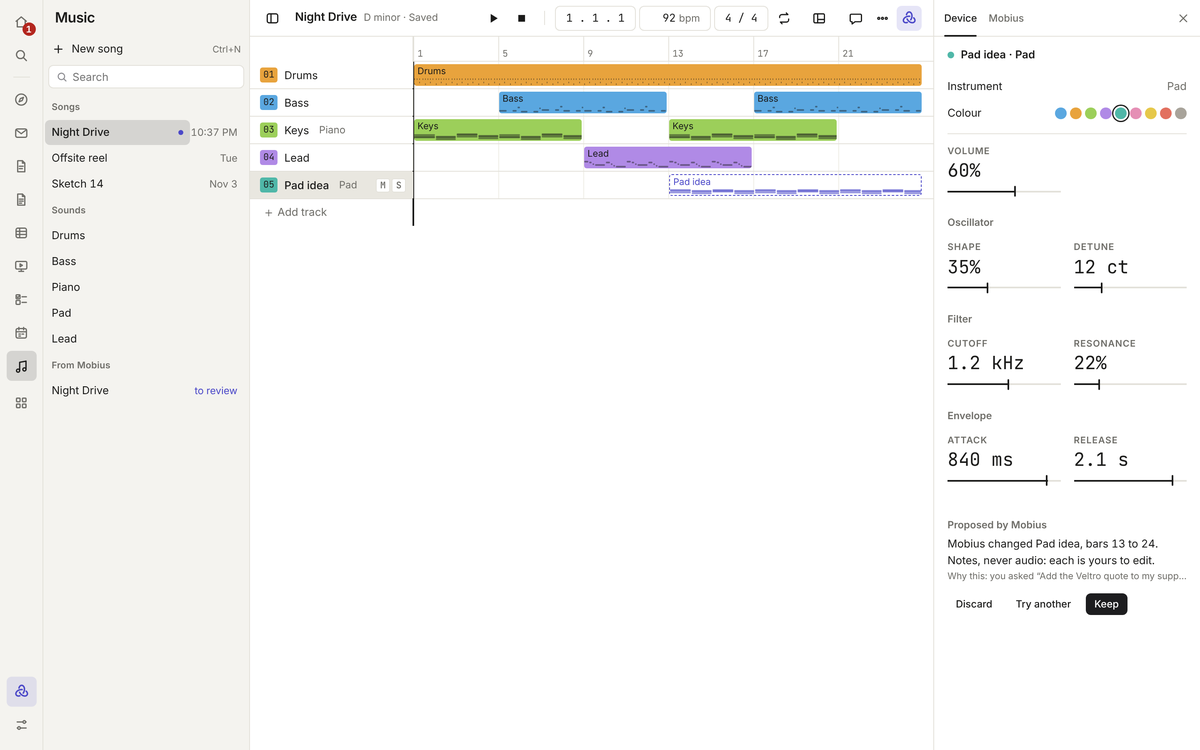
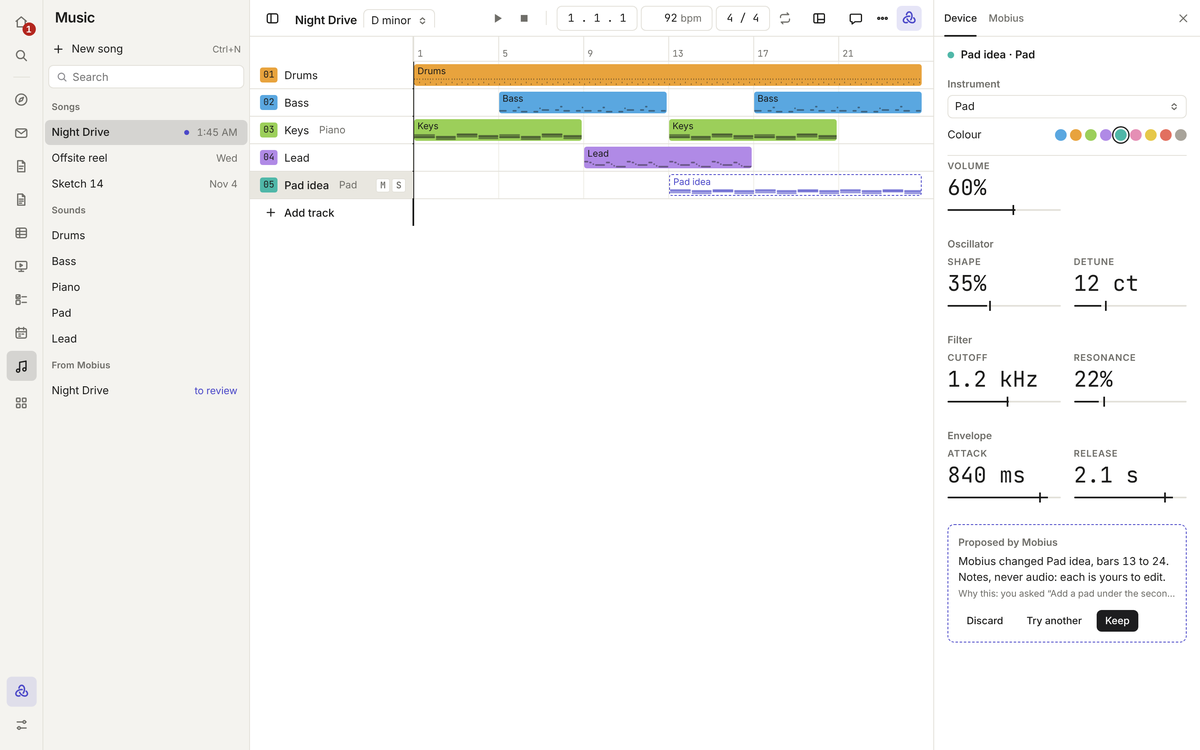
Music: shared controls swap (Select, ParamCell, Slider, IconButton, Button) (#215)
* Music: shared controls in place of Music's own

Select for Key, Instrument, Grid and Note length; ParamCell and ParamGrid for Volume and the sound settings;
Slider for velocity; IconButton for Play, Stop, Loop and Hide notes; quiet Button for Add track, Quantize and
Delete. Music's CSS for those controls is gone.

Claude-Session: https://claude.ai/code/session_01VRGwo92y9AyxCvHYC61ZVd

* PR screenshots (removed in the next commit)

Claude-Session: https://claude.ai/code/session_01VRGwo92y9AyxCvHYC61ZVd

* Remove the PR screenshots

Claude-Session: https://claude.ai/code/session_01VRGwo92y9AyxCvHYC61ZVd

* Music: Mobius's proposal in the Device tab carries the dashed indigo edge

Claude-Session: https://claude.ai/code/session_01VRGwo92y9AyxCvHYC61ZVd

* PR screenshots (removed in the next commit)

Claude-Session: https://claude.ai/code/session_01VRGwo92y9AyxCvHYC61ZVd

* Remove the PR screenshots

Claude-Session: https://claude.ai/code/session_01VRGwo92y9AyxCvHYC61ZVd

* Music: "Why this" quotes the turn that changed the song

WhyThis takes the file under review and quotes the turn that touched it (marked shared edit); the preview
gets Night Drive's own turn.

Claude-Session: https://claude.ai/code/session_01VRGwo92y9AyxCvHYC61ZVd

* PR screenshots (removed in the next commit)

Claude-Session: https://claude.ai/code/session_01VRGwo92y9AyxCvHYC61ZVd

* Remove the PR screenshots

Claude-Session: https://claude.ai/code/session_01VRGwo92y9AyxCvHYC61ZVd

---------

diff --git a/apps/desktop/src/Studio.tsx b/apps/desktop/src/Studio.tsx
@@ -5,8 +5,8 @@ import { EmptyState } from './EmptyState';
 import { BEATS_PER_BAR, COLOUR_NAMES, DRUMS, INSTRUMENTS, INSTRUMENT_NAMES, KEYS, TRACK_COLOURS, nextColour, SOUND_DEFAULTS, SOUND_RANGE, changedTracks, freshTrackId, keyPitches, noteName, parseSong, soundOf, writeSong, type Instrument, type Song, type SongNote, type Sound, type Track } from './song-format';
 import type { CSSProperties } from 'react';
 import { play, previewNote, type Player } from './studio-audio';
-import { GRIDS, addNote, clipsOf, cycleOf, duplicateNotes, fitTracks, fromSlider, nudgeVelocity, isBlack, moveNotes, notesIn, pasteNotes, position, quantizeNotes, removeNotes, setVelocity, snap, soundText, stretchNotes, toSlider, type Cycle, type Picked } from './studio-view';
-import { AppSidebar, PanelTab, SidebarRow, SidebarSearch, SidebarSection, ToolbarControls, UndoToast } from './ui';
+import { GRIDS, addNote, clipsOf, cycleOf, duplicateNotes, fitTracks, nudgeVelocity, isBlack, moveNotes, notesIn, pasteNotes, position, quantizeNotes, removeNotes, setVelocity, snap, soundText, stretchNotes, type Cycle, type Picked } from './studio-view';
+import { AppSidebar, Button, IconButton, PanelTab, ParamCell, ParamGrid, Select, SidebarRow, SidebarSearch, SidebarSection, Slider, ToolbarControls, UndoToast } from './ui';
 import { SideNew } from './SideNew';
 import { statusText } from './notes-state';
 import { dayLabel, timeLabel, weekdayLabel } from './dates';
@@ -83,7 +83,7 @@ export function StudioSub({ songs }: { songs: NotesState }) {
   const setKey = (key: string) => { const next = structuredClone(song); next.key = key; songs.edit(writeSong(next)); };
   return (
     <>
-      <select className="studio-key-pick" aria-label="Key" value={song.key} onChange={(e) => setKey(e.target.value)}>{KEYS.map((k) => <option key={k}>{k}</option>)}</select>
+      <Select className="studio-key-pick" label="Key" hideLabel value={song.key} choices={KEY_CHOICES} onChange={setKey} />
       {' · '}<span className="note-status" role="status" data-status={songs.status}>{songs.message || statusText(songs.status)}</span>
     </>
   );
@@ -150,24 +150,20 @@ function Clips({ track, bars, proposed, bw, onOpen }: { track: Track; bars: numb
   );
 }
 
-/**
- * One of the Device panel's settings, as an instrument's parameter cell: a small label above, the value large in the
- * mono face, and a thin slider under it. Double-click puts it back.
- */
-function DeviceCell({ name, text, at, onSlide, onReset, label = name }: { name: string; text: string; at: number; onSlide: (t: number) => void; onReset: () => void; label?: string }) {
-  return (
-    <label className="studio-cell" onDoubleClick={onReset} title={`${name}. Double-click to put it back.`}>
-      <span className="studio-cell-name">{name}</span>
-      <output className="studio-cell-value">{text}</output>
-      <input type="range" aria-label={label} min={0} max={1000} step={1} value={Math.round(at * 1000)} aria-valuetext={text} onChange={(e) => onSlide(Number(e.target.value) / 1000)} style={{ ['--at' as string]: `${at * 100}%` }} />
-    </label>
-  );
-}
+/** How finely each setting moves with the arrow keys (Shift for ten times as far). */
+const SOUND_STEP: Record<keyof Sound, number> = { shape: 0.01, detune: 1, cutoff: 10, resonance: 0.01, attack: 0.001, release: 0.01 };
+/** Cutoff, attack and release are heard in ratios, so their sliders move evenly in octaves rather than in Hz or seconds. */
+const LOG_SOUND = new Set<keyof Sound>(['cutoff', 'attack', 'release']);
+
+/** One of the Device panel's settings, as the shared parameter cell. Double-click puts it back to the instrument's own. */
 function DeviceSlider({ name, k, value, base, onChange }: { name: string; k: keyof Sound; value: number; base: number; onChange: (v: number) => void }) {
   const { lo, hi } = SOUND_RANGE[k];
-  const log = k === 'cutoff' || k === 'attack' || k === 'release';
-  return <DeviceCell name={name} text={soundText(k, value)} at={toSlider(value, lo, hi, log)} onSlide={(t) => onChange(fromSlider(t, lo, hi, log))} onReset={() => onChange(base)} />;
+  return <ParamCell label={name} value={value} min={lo} max={hi} step={SOUND_STEP[k]} scale={LOG_SOUND.has(k) ? 'log' : 'linear'} reset={base} format={(v) => soundText(k, v)} onChange={onChange} />;
 }
+
+const INSTRUMENT_CHOICES = INSTRUMENTS.map((i) => ({ value: i, label: INSTRUMENT_NAMES[i] }));
+const KEY_CHOICES = KEYS.map((k) => ({ value: k, label: k }));
+const GRID_CHOICES = GRIDS.map((g) => ({ value: String(g.beats), label: g.label }));
 
 /**
  * The Device panel: how the chosen track sounds (its instrument, volume, oscillator, filter and envelope), and what
@@ -189,35 +185,33 @@ export function StudioDevice({ track, onTrack, proposal }: {
             <span className="studio-dev-dot" aria-hidden="true" />{track.name === INSTRUMENT_NAMES[track.instrument] ? track.name : `${track.name} · ${INSTRUMENT_NAMES[track.instrument]}`}
           </h3>
           <div className="studio-dev-group">
-            <label className="studio-dev-row"><span className="studio-dev-name">Instrument</span>
-              <select aria-label="Instrument" value={track.instrument} onChange={(e) => onTrack((t) => { t.instrument = e.target.value as Instrument; delete t.sound; })}>{INSTRUMENTS.map((i) => <option key={i} value={i}>{INSTRUMENT_NAMES[i]}</option>)}</select>
-            </label>
-            <div className="studio-dev-row"><span className="studio-dev-name" id="studio-colour-name">Colour</span>
+            <Select className="studio-dev-row" label="Instrument" value={track.instrument} choices={INSTRUMENT_CHOICES} onChange={(i) => onTrack((t) => { t.instrument = i; delete t.sound; })} />
+            <div className="studio-colour-row"><span id="studio-colour-name">Colour</span>
               <span className="studio-swatches" role="radiogroup" aria-labelledby="studio-colour-name">
                 {TRACK_COLOURS.map((c) => <button key={c} type="button" role="radio" aria-checked={track.color === c} aria-label={COLOUR_NAMES[c]} title={COLOUR_NAMES[c]} className="studio-swatch" style={{ '--tc': `var(--c-${c})` } as CSSProperties} onClick={() => onTrack((t) => { t.color = c; })} />)}
               </span>
             </div>
           </div>
-          <div className="studio-cells">
-            <DeviceCell name="Volume" label={`Volume of ${track.name}`} text={`${Math.round(track.volume * 100)}%`} at={track.volume} onSlide={(v) => onTrack((t) => { t.volume = Math.round(v * 100) / 100; }, 'volume')} onReset={() => onTrack((t) => { t.volume = 0.8; })} />
-          </div>
+          <ParamGrid label="Level">
+            <ParamCell label="Volume" value={track.volume} min={0} max={1} step={0.01} reset={0.8} format={(v) => `${Math.round(v * 100)}%`} onChange={(v) => onTrack((t) => { t.volume = v; }, 'volume')} />
+          </ParamGrid>
           {sound && base ? (
             <>
               <h4 className="studio-dev-head">Oscillator</h4>
-              <div className="studio-cells">
+              <ParamGrid label="Oscillator">
                 <DeviceSlider name="Shape" k="shape" value={sound.shape} base={base.shape} onChange={(v) => set('shape', v)} />
                 <DeviceSlider name="Detune" k="detune" value={sound.detune} base={base.detune} onChange={(v) => set('detune', v)} />
-              </div>
+              </ParamGrid>
               <h4 className="studio-dev-head">Filter</h4>
-              <div className="studio-cells">
+              <ParamGrid label="Filter">
                 <DeviceSlider name="Cutoff" k="cutoff" value={sound.cutoff} base={base.cutoff} onChange={(v) => set('cutoff', v)} />
                 <DeviceSlider name="Resonance" k="resonance" value={sound.resonance} base={base.resonance} onChange={(v) => set('resonance', v)} />
-              </div>
+              </ParamGrid>
               <h4 className="studio-dev-head">Envelope</h4>
-              <div className="studio-cells">
+              <ParamGrid label="Envelope">
                 <DeviceSlider name="Attack" k="attack" value={sound.attack} base={base.attack} onChange={(v) => set('attack', v)} />
                 <DeviceSlider name="Release" k="release" value={sound.release} base={base.release} onChange={(v) => set('release', v)} />
-              </div>
+              </ParamGrid>
             </>
           ) : <p className="studio-dev-note">The drum kit has no settings yet. Each drum has its own row in the notes.</p>}
         </>
@@ -689,7 +683,7 @@ export function StudioEditor({ songs, review }: { songs: NotesState; review?: { 
   const proposal = changed.size > 0 ? (
     <div className="studio-dev-proposal" role="group" aria-label="Mobius's change">
       <h4 className="studio-dev-head">Proposed by Mobius</h4>
-      <p>{`Mobius ${before === null ? 'made' : 'changed'} ${names.join('; ')}. Notes, never audio: each is yours to edit.`}{review && <> <WhyThis conversation={review.conversation} /></>}</p>
+      <p>{`Mobius ${before === null ? 'made' : 'changed'} ${names.join('; ')}. Notes, never audio: each is yours to edit.`}{review && <> <WhyThis conversation={review.conversation} file={file ?? undefined} /></>}</p>
       <div className="studio-dev-actions"><ReviewActions onKeep={keep} onDiscard={discard} /></div>
     </div>
   ) : null;
@@ -712,8 +706,8 @@ export function StudioEditor({ songs, review }: { songs: NotesState; review?: { 
   return (
     <section className="studio-page" aria-label="Music" ref={page} data-editing={editing || undefined}>
       <ToolbarControls label="Transport">
-        <button type="button" className="strip-btn studio-play" aria-label={playing ? 'Pause' : 'Play'} title={playing ? 'Pause (Space)' : 'Play (Space)'} aria-pressed={playing} onClick={() => (playing ? stop() : start())}><Icon d={playing ? 'M6.5 4.5v11M13.5 4.5v11' : ICONS.play} /></button>
-        <button type="button" className="strip-btn" aria-label="Stop" title={playing ? 'Stop (Space)' : 'Back to the start (Enter)'} onClick={stopOrRewind}><Icon d={ICONS.stop} /></button>
+        <IconButton className="studio-play" label={playing ? 'Pause' : 'Play'} keys="Space" pressed={playing} icon={<Icon d={playing ? 'M6.5 4.5v11M13.5 4.5v11' : ICONS.play} />} onClick={() => (playing ? stop() : start())} />
+        <IconButton label="Stop" title={playing ? 'Stop' : 'Back to the start'} keys={playing ? 'Space' : 'Enter'} icon={<Icon d={ICONS.stop} />} onClick={stopOrRewind} />
         <span className="studio-sep" aria-hidden="true" />
         <span className="studio-readout studio-pos" aria-label="Position" role="status" title={pos.time}>{pos.bars.split('.').join(' . ')}</span>
         <label className="studio-readout studio-tempo" title="Tempo, in beats per minute">
@@ -721,7 +715,7 @@ export function StudioEditor({ songs, review }: { songs: NotesState; review?: { 
           <span aria-hidden="true">bpm</span>
         </label>
         <span className="studio-readout studio-meter" aria-label="Meter: 4 beats to a bar" title="Every song is in 4 / 4 for now">4 / 4</span>
-        <button type="button" className="strip-btn" aria-label="Loop" title={loop ? `Looping ${loopWords} (L)` : 'Loop (L)'} aria-pressed={loop} onClick={() => setLoop((l) => !l)}><Icon d={ICONS.loop} /></button>
+        <IconButton label="Loop" title={loop ? `Looping ${loopWords}` : 'Loop'} keys="L" pressed={loop} icon={<Icon d={ICONS.loop} />} onClick={() => setLoop((l) => !l)} />
       </ToolbarControls>
       <div className="studio-main">
         <div className="studio-arrange" data-empty={song.tracks.length === 0 || undefined} style={{ ['--head' as string]: `${HEAD_W}px`, ['--bar' as string]: `${BEATS_PER_BAR * bw}px`, ...(editing ? { height: listH, flex: 'none' } : {}) }}
@@ -777,7 +771,7 @@ export function StudioEditor({ songs, review }: { songs: NotesState; review?: { 
               </div>
             ))}
             <div className="studio-add-row">
-              <button type="button" className="studio-add" onClick={(e) => { const r = e.currentTarget.getBoundingClientRect(); soundsMenu(r.left, r.bottom); }}><Icon d="M10 4.5v11M4.5 10h11" />Add track</button>
+              <Button kind="quiet" className="studio-add" icon={<Icon d="M10 4.5v11M4.5 10h11" />} onClick={(e) => { const r = e.currentTarget.getBoundingClientRect(); soundsMenu(r.left, r.bottom); }}>Add track</Button>
               {song.tracks.length === 0 && <span className="studio-none">No tracks yet.</span>}
             </div>
             <span className="studio-playhead" style={{ left: HEAD_W + beat * bw }} aria-hidden="true" />
@@ -801,18 +795,18 @@ export function StudioEditor({ songs, review }: { songs: NotesState; review?: { 
             <div className="studio-editor" data-instrument={track.instrument} style={{ '--tc': `var(--c-${track.color})` } as CSSProperties}>
               <div className="studio-roll-bar" role="toolbar" aria-label="Notes">
                 <span className="studio-roll-title"><span className="studio-dev-dot" aria-hidden="true" />{track.name}</span>
-                <label className="studio-field"><span>Grid</span><select aria-label="Grid" value={grid} onChange={(e) => setGrid(Number(e.target.value))}>{GRIDS.map((g) => <option key={g.beats} value={g.beats}>{g.label}</option>)}</select></label>
-                {!drums && <label className="studio-field"><span>Draw</span><select aria-label="Note length" value={drawLength} onChange={(e) => setDrawLength(Number(e.target.value))}>{GRIDS.map((g) => <option key={g.beats} value={g.beats}>{g.label}</option>)}</select></label>}
-                <button type="button" className="studio-chip" title="Line notes up to the grid (Q)" onClick={() => setNotes((n) => quantizeNotes(n, picked, grid, total))}>Quantize</button>
+                <Select label="Grid" value={String(grid)} choices={GRID_CHOICES} onChange={(g) => setGrid(Number(g))} />
+                {!drums && <Select label="Note length" value={String(drawLength)} choices={GRID_CHOICES} onChange={(g) => setDrawLength(Number(g))} />}
+                <Button kind="quiet" title="Line notes up to the grid" keys="Q" onClick={() => setNotes((n) => quantizeNotes(n, picked, grid, total))}>Quantize</Button>
                 <span className="studio-gap" />
                 {velocity !== null ? (
                   <>
                     <span className="studio-picked">{pickedNotes.length === 1 ? `${drums ? (DRUMS.find((d) => d.pitch === pickedNotes[0]!.pitch)?.name ?? '') : noteName(pickedNotes[0]!.pitch)} at ${position(pickedNotes[0]!.start, song.tempo).bars}` : `${pickedNotes.length} notes`}</span>
-                    <label className="studio-field studio-velocity"><span>Velocity</span><input type="range" aria-label="Velocity" min={0} max={1} step={0.01} value={velocity} onChange={(e) => setNotes((n) => setVelocity(n, picked, Number(e.target.value)), 'velocity')} /><output>{Math.round(velocity * 127)}</output></label>
-                    <button type="button" className="studio-chip" aria-label="Delete notes" title="Delete (Delete)" onClick={() => { setNotes((n) => removeNotes(n, picked)); setPicked(new Set()); }}>Delete</button>
+                    <Slider className="studio-velocity" label="Velocity" value={Math.round(velocity * 100) / 100} min={0} max={1} step={0.01} format={(v) => String(Math.round(v * 127))} onChange={(v) => setNotes((n) => setVelocity(n, picked, v), 'velocity')} />
+                    <Button kind="quiet" danger aria-label="Delete notes" title="Delete" keys="Delete" onClick={() => { setNotes((n) => removeNotes(n, picked)); setPicked(new Set()); }}>Delete</Button>
                   </>
                 ) : <span className="studio-hint">Click to draw a note, drag to move it, drag its end to stretch it.</span>}
-                <button type="button" className="strip-btn studio-roll-close" aria-label="Hide notes" title="Hide notes" onClick={() => setEditing(false)}><Icon d="M6 6l8 8M14 6l-8 8" /></button>
+                <IconButton className="studio-roll-close" label="Hide notes" icon={<Icon d="M6 6l8 8M14 6l-8 8" />} onClick={() => setEditing(false)} />
               </div>
           <div className="studio-roll" ref={roll} role="grid" aria-label={`Notes of ${track.name}`} aria-multiselectable="true" tabIndex={0} onKeyDown={onRollKey} onScroll={(e) => setScrollX(e.currentTarget.scrollLeft)}>
             <div

diff --git a/apps/desktop/src/studio.css b/apps/desktop/src/studio.css
@@ -17,7 +17,8 @@
 .studio-placeholder { display: block; width: var(--w, 60%); height: calc(var(--row-list) - var(--sp-2)); border-radius: var(--radius-small); background: var(--sel); }
 
 /* ---------- Toolbar: transport, position, tempo, meter, loop ---------- */
-.studio-play svg, .ui-toolbar-group .studio-play + .strip-btn svg { fill: currentColor; stroke: none; }
+/* Play and Stop are solid shapes; the shared icon button draws lines. */
+.studio-play svg, .studio-play + .ui-icon-button svg { fill: currentColor; stroke: none; }
 .studio-sep { width: var(--hairline-w); height: var(--fs-xl); margin: 0 var(--sp-2); background: var(--line); }
 .studio-readout { display: inline-flex; align-items: center; gap: var(--sp-1); height: var(--control-h-lg); padding: 0 var(--sp-3); border: var(--hairline-w) solid var(--line); border-radius: var(--radius-control); background: var(--paper); color: var(--ink); font: var(--fs-md) / 1 var(--font-mono); font-variant-numeric: tabular-nums; white-space: nowrap; }
 .studio-pos { min-width: 9ch; justify-content: center; }
@@ -26,10 +27,6 @@
 .studio-tempo input:focus { outline: none; }
 .studio-tempo:focus-within { border-color: var(--ink); }
 .studio-tempo span { color: var(--muted); font-family: var(--font); font-size: var(--fs-sm); }
-/* The key, in the toolbar's grey line: a quiet choice that reads as text until it is pressed. */
-.studio-key-pick { field-sizing: content; height: auto; min-height: 0; padding: 0; border: 0; box-shadow: none; vertical-align: baseline; background: none; color: inherit; font: inherit; cursor: pointer; appearance: none; }
-.studio-key-pick:hover { color: var(--ink); }
-.studio-key-pick option { color: var(--ink); background: var(--paper); }
 
 /* ---------- Sidebar ---------- */
 .studio-side-when, .studio-to-review { align-self: center; padding-right: var(--sp-3); font-size: var(--fs-sm); white-space: nowrap; }
@@ -73,9 +70,6 @@
 
 /* After the last track: Add track, so a short song never ends in a blank field. */
 .studio-add-row { position: sticky; left: 0; display: flex; align-items: center; gap: var(--sp-3); width: var(--head); height: var(--row-list); padding: 0 var(--sp-2); border-right: var(--hairline-w) solid var(--line); box-sizing: border-box; }
-.studio-page .studio-add { display: inline-flex; align-items: center; gap: var(--sp-1); height: var(--control-h); padding: 0 var(--sp-2); border: 0; border-radius: var(--radius-control); background: none; color: var(--muted); font: inherit; white-space: nowrap; }
-.studio-page .studio-add:hover { background: var(--sel); color: var(--ink); }
-.studio-add svg { width: var(--fs-md); height: var(--fs-md); fill: none; stroke: currentColor; stroke-width: 1.5; stroke-linecap: round; }
 .studio-none { color: var(--muted); font-size: var(--fs-sm); white-space: nowrap; }
 .studio-arrange[data-empty] .studio-add-row { width: auto; border-right: 0; }
 
@@ -99,27 +93,16 @@
 .studio-dev-dot { flex: none; display: inline-block; width: var(--sp-2); height: var(--sp-2); border-radius: var(--radius-pill); background: var(--tc); }
 .studio-dev-head { margin: var(--sp-4) 0 0; font-size: var(--fs-sm); font-weight: var(--fw-semibold); color: var(--muted); }
 .studio-dev-group { display: grid; padding-bottom: var(--sp-2); border-bottom: var(--hairline-w) solid var(--line); }
-.studio-dev-row { display: flex; align-items: center; justify-content: space-between; gap: var(--sp-2); min-height: var(--row-list); }
-.studio-dev-row select { max-width: 60%; padding: 0; border: 0; background: none; color: var(--muted); font: inherit; text-align: right; cursor: pointer; }
-.studio-dev-name { color: var(--ink); }
+.studio-dev-row { padding: var(--sp-1) 0; }
+.studio-colour-row { display: flex; align-items: center; justify-content: space-between; gap: var(--sp-2); min-height: var(--row-list); color: var(--ink); }
 .studio-swatches { display: flex; flex-wrap: wrap; justify-content: flex-end; gap: var(--sp-1); }
 .studio-device .studio-swatch { width: var(--fs-lg); height: var(--fs-lg); padding: 0; border: 0; border-radius: var(--radius-pill); background: var(--tc); cursor: pointer; }
 .studio-swatch[aria-checked="true"] { box-shadow: 0 0 0 2px var(--paper), 0 0 0 3.5px var(--ink); }
 .studio-swatch:focus-visible { outline: 2px solid var(--ink); outline-offset: 2px; }
-/* Parameter cells: a small all-caps label above, the value large in mono, and a thin slider under it. */
-.studio-cells { display: grid; grid-template-columns: repeat(2, minmax(0, 1fr)); gap: var(--sp-3) var(--sp-4); margin-top: var(--sp-2); }
-.studio-cell { display: grid; gap: var(--sp-1); cursor: default; }
-.studio-cell-name { font-size: var(--fs-floor); font-weight: var(--fw-semibold); letter-spacing: 0.06em; text-transform: uppercase; color: var(--muted); }
-.studio-cell-value { font: var(--fs-2xl) / 1.1 var(--font-mono); color: var(--ink); white-space: nowrap; overflow: hidden; text-overflow: ellipsis; }
-/* A slider: a thin track, ink up to the value, with a short upright mark for the thumb. */
-.studio-cell input[type="range"] { width: 100%; height: var(--fs-xl); margin: 0; background: transparent; appearance: none; -webkit-appearance: none; cursor: pointer; }
-.studio-cell input[type="range"]::-webkit-slider-runnable-track { height: 2px; background: linear-gradient(90deg, var(--ink) var(--at, 0%), var(--line) var(--at, 0%)); }
-.studio-cell input[type="range"]::-moz-range-track { height: 2px; background: linear-gradient(90deg, var(--ink) var(--at, 0%), var(--line) var(--at, 0%)); }
-.studio-cell input[type="range"]::-webkit-slider-thumb { -webkit-appearance: none; width: 2px; height: var(--fs-md); margin-top: -5.5px; border-radius: 1px; background: var(--ink); }
-.studio-cell input[type="range"]::-moz-range-thumb { width: 2px; height: var(--fs-md); border: 0; border-radius: 1px; background: var(--ink); }
-.studio-cell input[type="range"]:focus-visible { outline: 2px solid var(--ink); outline-offset: 2px; border-radius: var(--radius-small); }
 .studio-dev-note { margin: var(--sp-2) 0; color: var(--muted); font-size: var(--fs-sm); }
-.studio-dev-proposal { margin-top: var(--sp-4); }
+/* What Mobius proposes: the dashed indigo edge every Mobius change carries until it is kept. */
+.studio-dev-proposal { margin-top: var(--sp-4); padding: var(--sp-3); border: calc(var(--hairline-w) * 1.5) dashed var(--mobius); border-radius: var(--radius-panel); }
+.studio-dev-proposal .studio-dev-head { margin-top: 0; }
 .studio-dev-proposal p { margin: var(--sp-1) 0 var(--sp-3); line-height: var(--lh-body); }
 .studio-dev-actions { display: flex; flex-wrap: wrap; gap: var(--sp-2); }
 
@@ -131,14 +114,11 @@
 .studio-divider:hover, .studio-divider:focus-visible { background: var(--ink); }
 .studio-roll-bar { flex: none; display: flex; align-items: center; gap: var(--sp-3); height: var(--row-list); padding: 0 var(--sp-2) 0 var(--sp-3); border-bottom: var(--hairline-w) solid var(--line); background: var(--paper); font-size: var(--fs-sm); }
 .studio-roll-close { margin-left: var(--sp-1); color: var(--muted); }
-.studio-roll-close svg { width: var(--fs-lg); height: var(--fs-lg); fill: none; stroke: currentColor; stroke-width: 1.5; stroke-linecap: round; }
 .studio-roll-title { display: inline-flex; align-items: center; gap: var(--sp-2); font-weight: var(--fw-semibold); white-space: nowrap; }
-.studio-field { display: inline-flex; align-items: center; gap: var(--sp-1); color: var(--muted); white-space: nowrap; }
-.studio-field select { height: var(--control-h); padding: 0 var(--sp-1); border: 0; border-radius: var(--radius-control); background: var(--field); color: var(--ink); font: inherit; }
-.studio-velocity input { width: 96px; accent-color: var(--ink); }
-.studio-velocity output { min-width: 3ch; font-family: var(--font-mono); color: var(--ink); }
-.studio-chip { height: var(--control-h); padding: 0 var(--sp-2); border: 0; border-radius: var(--radius-control); background: var(--field); color: var(--ink); font: inherit; }
-.studio-chip:hover { background: var(--sel); }
+/* Until the shared Select has an inline layout (asked of the library): the roll bar's choices sit beside their names. */
+.studio-roll-bar .ui-field { flex-direction: row; align-items: center; }
+/* Where the velocity slider sits in the roll bar: its width only. */
+.studio-roll-bar .studio-velocity { width: calc(var(--sp-8) * 6); }
 .studio-picked { font-weight: var(--fw-semibold); white-space: nowrap; }
 .studio-hint { color: var(--muted); white-space: nowrap; overflow: hidden; text-overflow: ellipsis; }
 

diff --git a/apps/desktop/src/bridge/preview.ts b/apps/desktop/src/bridge/preview.ts
@@ -64,7 +64,9 @@ const NOTES = () => [
 /** The first line under the title, as the Rust list gives it (roughly: enough for the preview). */
 const previewOf = (text: string) => (text.split('\n').map((l) => l.trim()).filter((l) => l && !l.startsWith('# ') && !l.startsWith('|'))[0] ?? '').replace(/^#+\s*|^[-*] (\[[ x]\] )?/g, '').replace(/!?\[([^\]]*)\]\([^)]*\)/g, '$1').replace(/[*_`]/g, '').slice(0, 120);
 /** One turn of Mobius's, still waiting to be kept, so the dashed proposals and Why this can be looked at. */
-const TURN = { start: 'abc1234', end: null, when: now - 5 * 60_000, ask: 'Add the Veltro quote to my supplier notes', files: ['notes/P2 build/Supplier notes.md', 'tasks/P2 build.md', 'docs/P2 build/Build brief.md', 'sheets/P2 budget/Sheet 1.csv', 'studio/Songs/Night Drive.json'] };
+const TURN = { start: 'abc1234', end: null, when: now - 5 * 60_000, ask: 'Add the Veltro quote to my supplier notes', files: ['notes/P2 build/Supplier notes.md', 'tasks/P2 build.md', 'docs/P2 build/Build brief.md', 'sheets/P2 budget/Sheet 1.csv'] };
+/** Music (marked): the turn that added Night Drive's pad, so Music's "Why this" quotes its own ask. */
+const SONG_TURN = { start: 'abc1233', end: 'abc1234', when: now - 40 * 60_000, ask: 'Add a pad under the second half of Night Drive', files: ['studio/Songs/Night Drive.json'] };
 
 let previewLook = { ...DEFAULT_APPEARANCE };
 // Abilities › Connectors: two servers as Mobius started them, and what was added or removed since.
@@ -142,8 +144,8 @@ const ANSWERS: Record<string, (...args: never[]) => unknown> = {
   ...PREVIEW_SHEETS,
   ...PREVIEW_DATABASES,
   'notes.read': ((path: string) => ({ path, content: NOTE_TEXT[path] ?? '', modified: now })) as never,
-  'changes.lastTurn': () => ({ checkpoint: TURN.start, files: TURN.files }),
-  'changes.turns': () => ({ ok: true, turns: [TURN] }),
+  'changes.lastTurn': () => ({ checkpoint: TURN.start, files: [...TURN.files, ...SONG_TURN.files] }),
+  'changes.turns': () => ({ ok: true, turns: [TURN, SONG_TURN] }),
   // Before the turn: the supplier notes had only their title, and the P2 build list had no deposit task.
   'changes.before': ((_conversation: string, path: string) => ({ ok: true, text: path.startsWith('studio/') ? PREVIEW_NIGHT_BEFORE /* Music (marked): the song before Mobius's pad */ : path.startsWith('tasks/') ? '# P2 build\n\n- [x] Confirm the build week with everyone\n- [ ] Hold 8 packs at Veltro\n- [ ] Book the sled for Friday\n- [x] Draft the build budget\n' : path.startsWith('sheets/') ? PREVIEW_BUDGET_BEFORE : path.startsWith('docs/') ? '# Build brief\n\nThe P2 build runs the week of the 23rd.\n' : '# Supplier notes\n' })) as never,
   'calendar.calendars': () => ['Kestrel P2', 'Work', 'Home'],

diff --git a/apps/desktop/src/ReviewBar.tsx b/apps/desktop/src/ReviewBar.tsx
@@ -14,15 +14,15 @@ export const TRY_ANOTHER_ASK = 'I discarded that change. Try another way.';
  * "Why this": what was asked in the turn that made a proposal, so the change can be judged against it. Nothing is shown
  * when the turn had no words (a schedule, say) or the turns cannot be read.
  */
-export function WhyThis({ conversation }: { conversation: string }) {
+export function WhyThis({ conversation, file }: { conversation: string; /** Music (marked): the file under review, to quote the turn that changed it. */ file?: string }) {
   const [ask, setAsk] = useState<string | null>(null);
   const [from, setFrom] = useState<string[]>([]);
   useEffect(() => {
     let live = true;
-    void window.mobius.changes?.turns?.(conversation).then((r) => { if (live) setAsk(r.ok ? r.turns[0]?.ask?.trim() || null : null); }).catch(() => undefined);
+    void window.mobius.changes?.turns?.(conversation).then((r) => { if (live) setAsk(r.ok ? ((file && r.turns.find((t) => t.files?.includes(file))) || r.turns[0])?.ask?.trim() || null : null); }).catch(() => undefined);
     void window.mobius.agent.history(conversation).then((h) => { if (live) setFrom(linkedFrom(h)); }).catch(() => undefined);
     return () => { live = false; };
-  }, [conversation]);
+  }, [conversation, file]);
   return (
     <>
       {ask && <span className="review-why" title={ask}>Why this: you asked “{ask.length > 90 ? `${ask.slice(0, 89)}…` : ask}”</span>}
